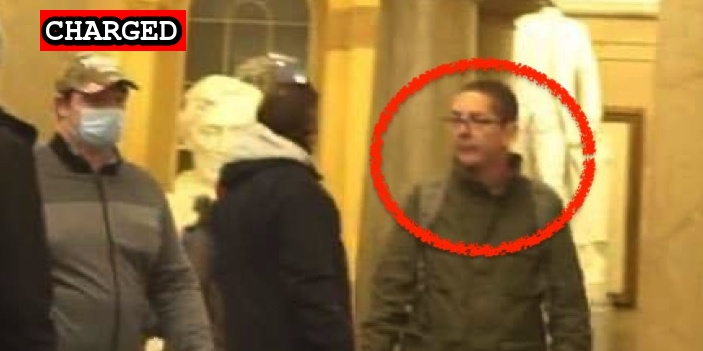
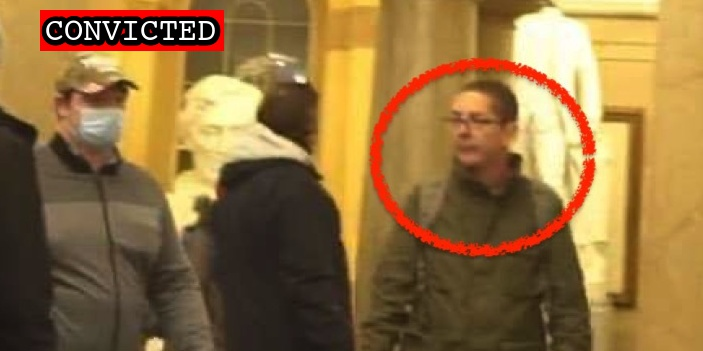
Latest import

Changed region(s): [[0.0597, 0.0285, 0.3286, 0.1709]]

diff --git a/docs/_suspects/sean-watson.md b/docs/_suspects/sean-watson.md
@@ -4,15 +4,17 @@ lastName: Watson
 hashtag: SeanWatson
 aka:
 residence: Texas
-status: Charged
+status: Convicted
 date: 2021-04-23
 charged: 2021-04-23
 indicted:
-convicted:
+convicted: 2022-04-21
+acquitted:
 sentenced:
 dismissed:
 deceased:
 plea_hearing: 2022-04-21
+trial_date:
 sentencing:
 age:
 occupation:
@@ -34,10 +36,15 @@ published: true
 caseNumber: 1:21-cr-422
 videos:
 charges:
+- code: 40 USC § 5104(e)(2)(G)
+  title: Parading, demonstrating or picketing in a Capitol building
+  url: https://www.law.cornell.edu/uscode/text/40/5104
+  felony: false
 sentence:
 ---
-
 - [News Report](https://www.kwtx.com/2021/04/30/alpine-man-involved-in-january-capitol-riots-now-facing-charges/)
 - [Complaint](https://www.justice.gov/usao-dc/case-multi-defendant/file/1390656/download)
 - [Statement of Facts](https://www.justice.gov/usao-dc/case-multi-defendant/file/1390661/download)
 - [Information](https://www.justice.gov/usao-dc/case-multi-defendant/file/1461566/download)
+- [Plea Agreement](https://www.justice.gov/usao-dc/case-multi-defendant/file/1496026/download)
+- [Statement of Offense](https://www.justice.gov/usao-dc/case-multi-defendant/file/1496031/download)

diff --git a/docs/_suspects/barry-ramey.md b/docs/_suspects/barry-ramey.md
@@ -39,4 +39,5 @@ charges:
 sentence:
 ---
 
+- [News Report](https://www.nbcnews.com/politics/justice-department/fbi-says-proud-boy-tried-derail-jan-6-investigating-menacing-agent-rcna25418)
 - [Statement of Facts](https://storage.courtlistener.com/recap/gov.uscourts.dcd.242488/gov.uscourts.dcd.242488.1.1.pdf)
